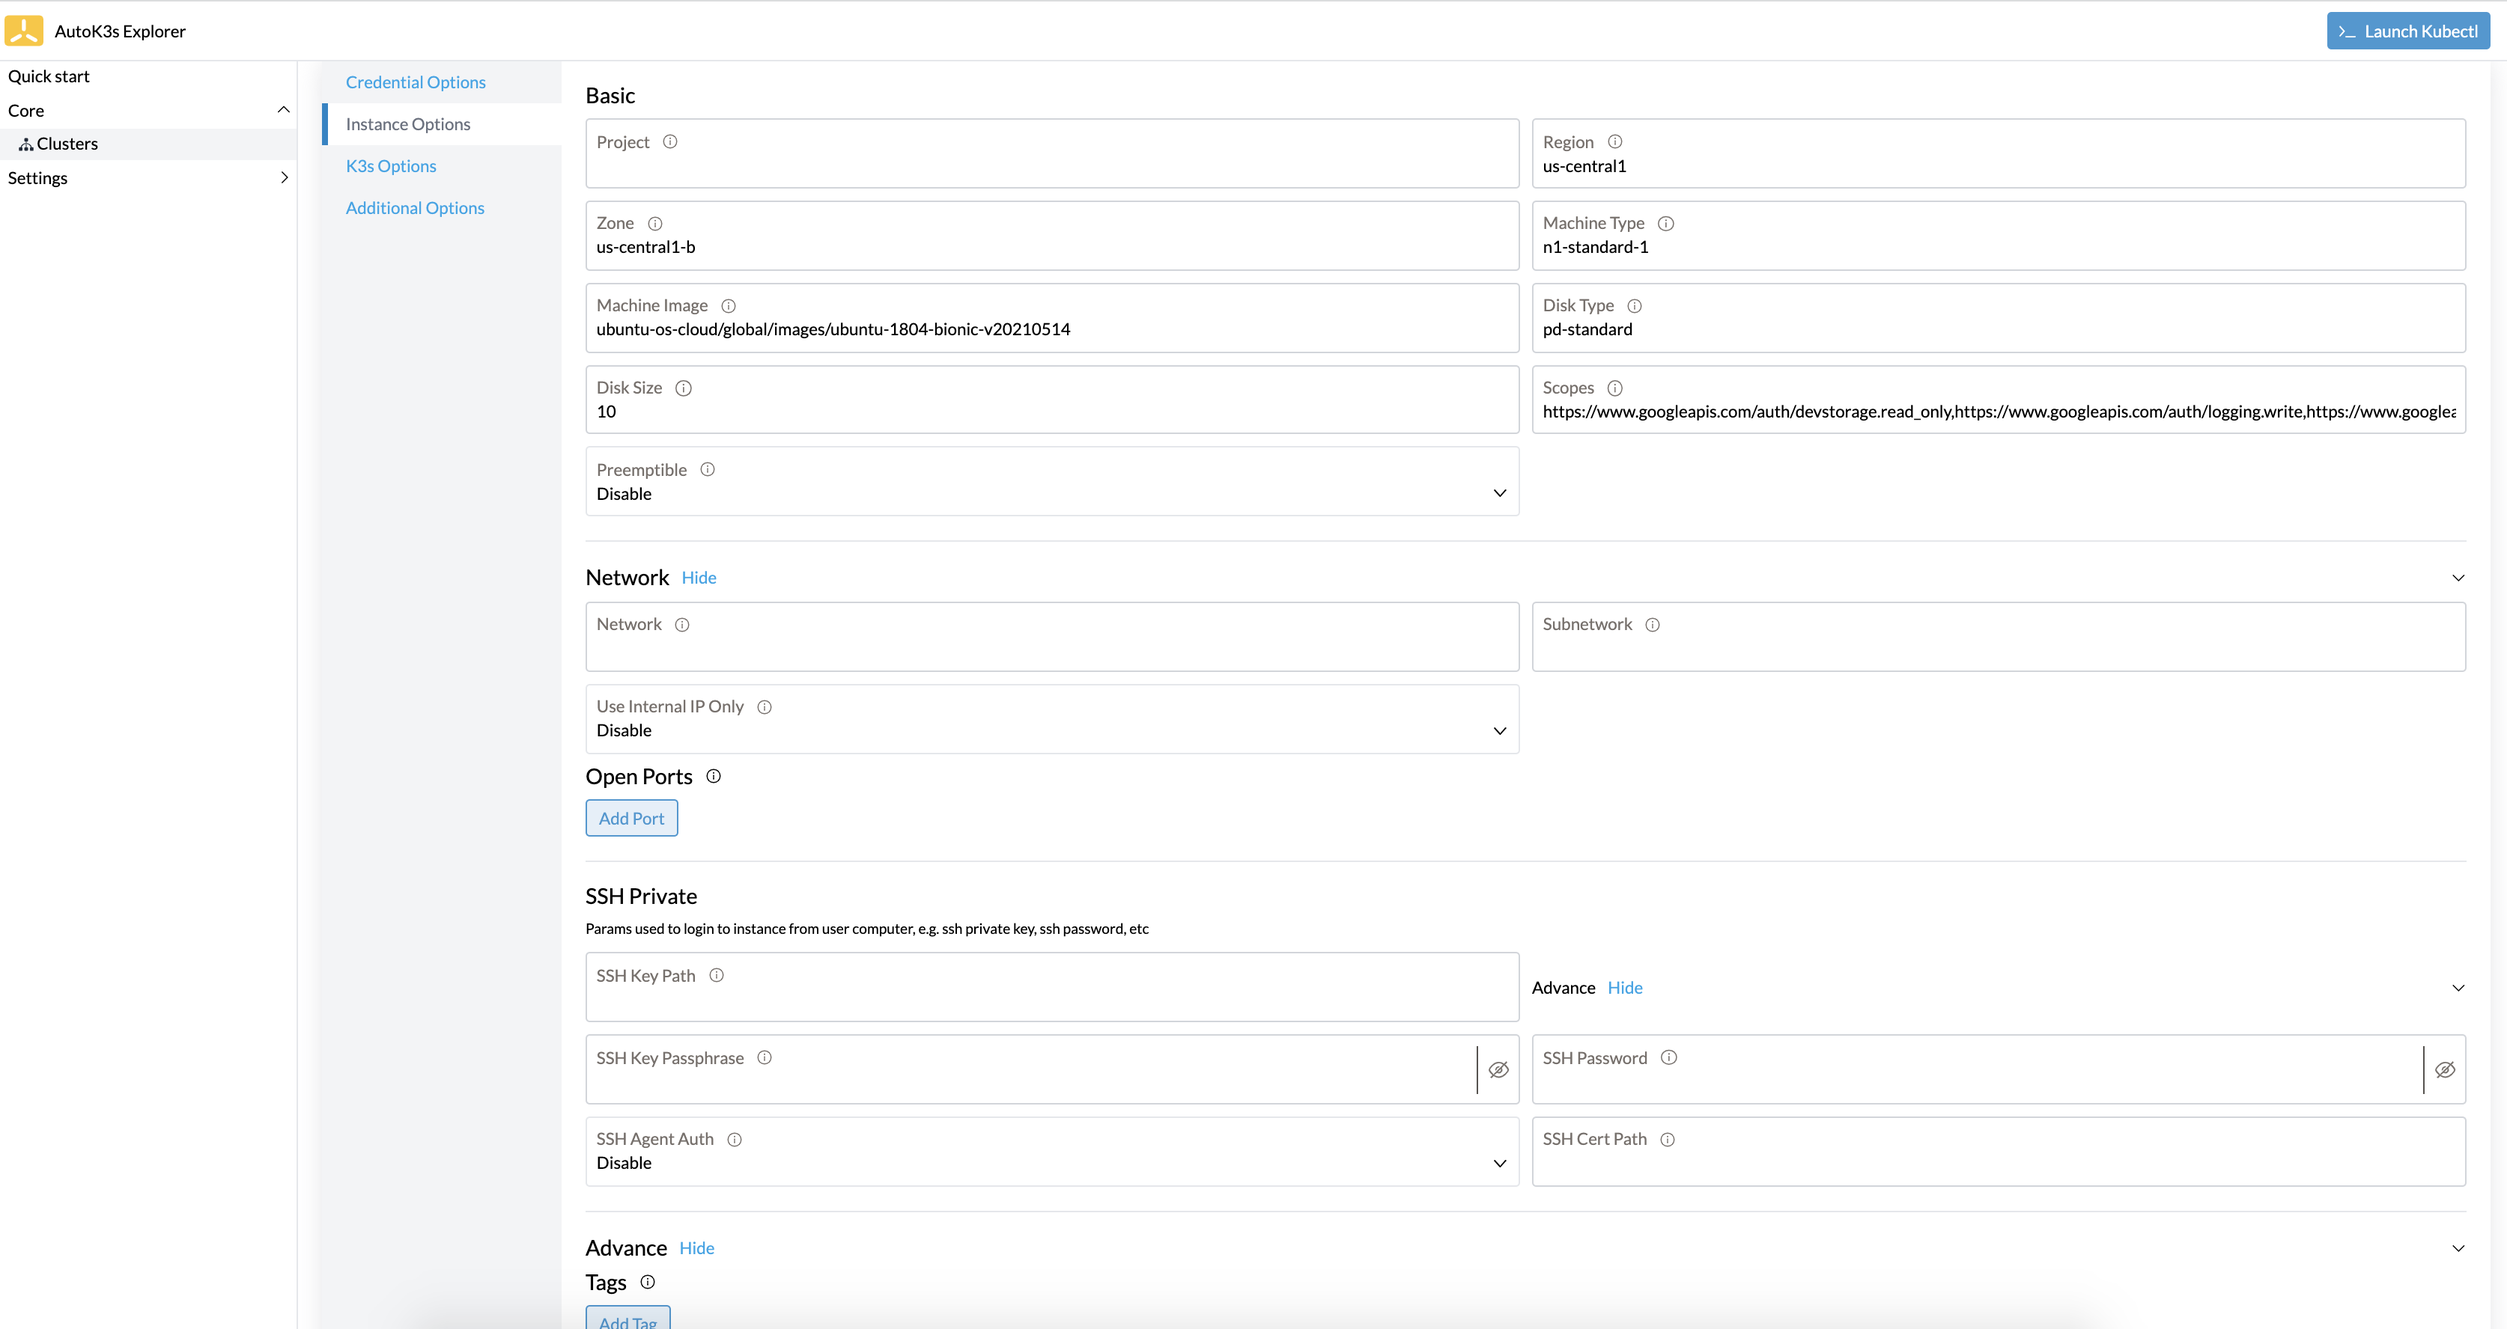
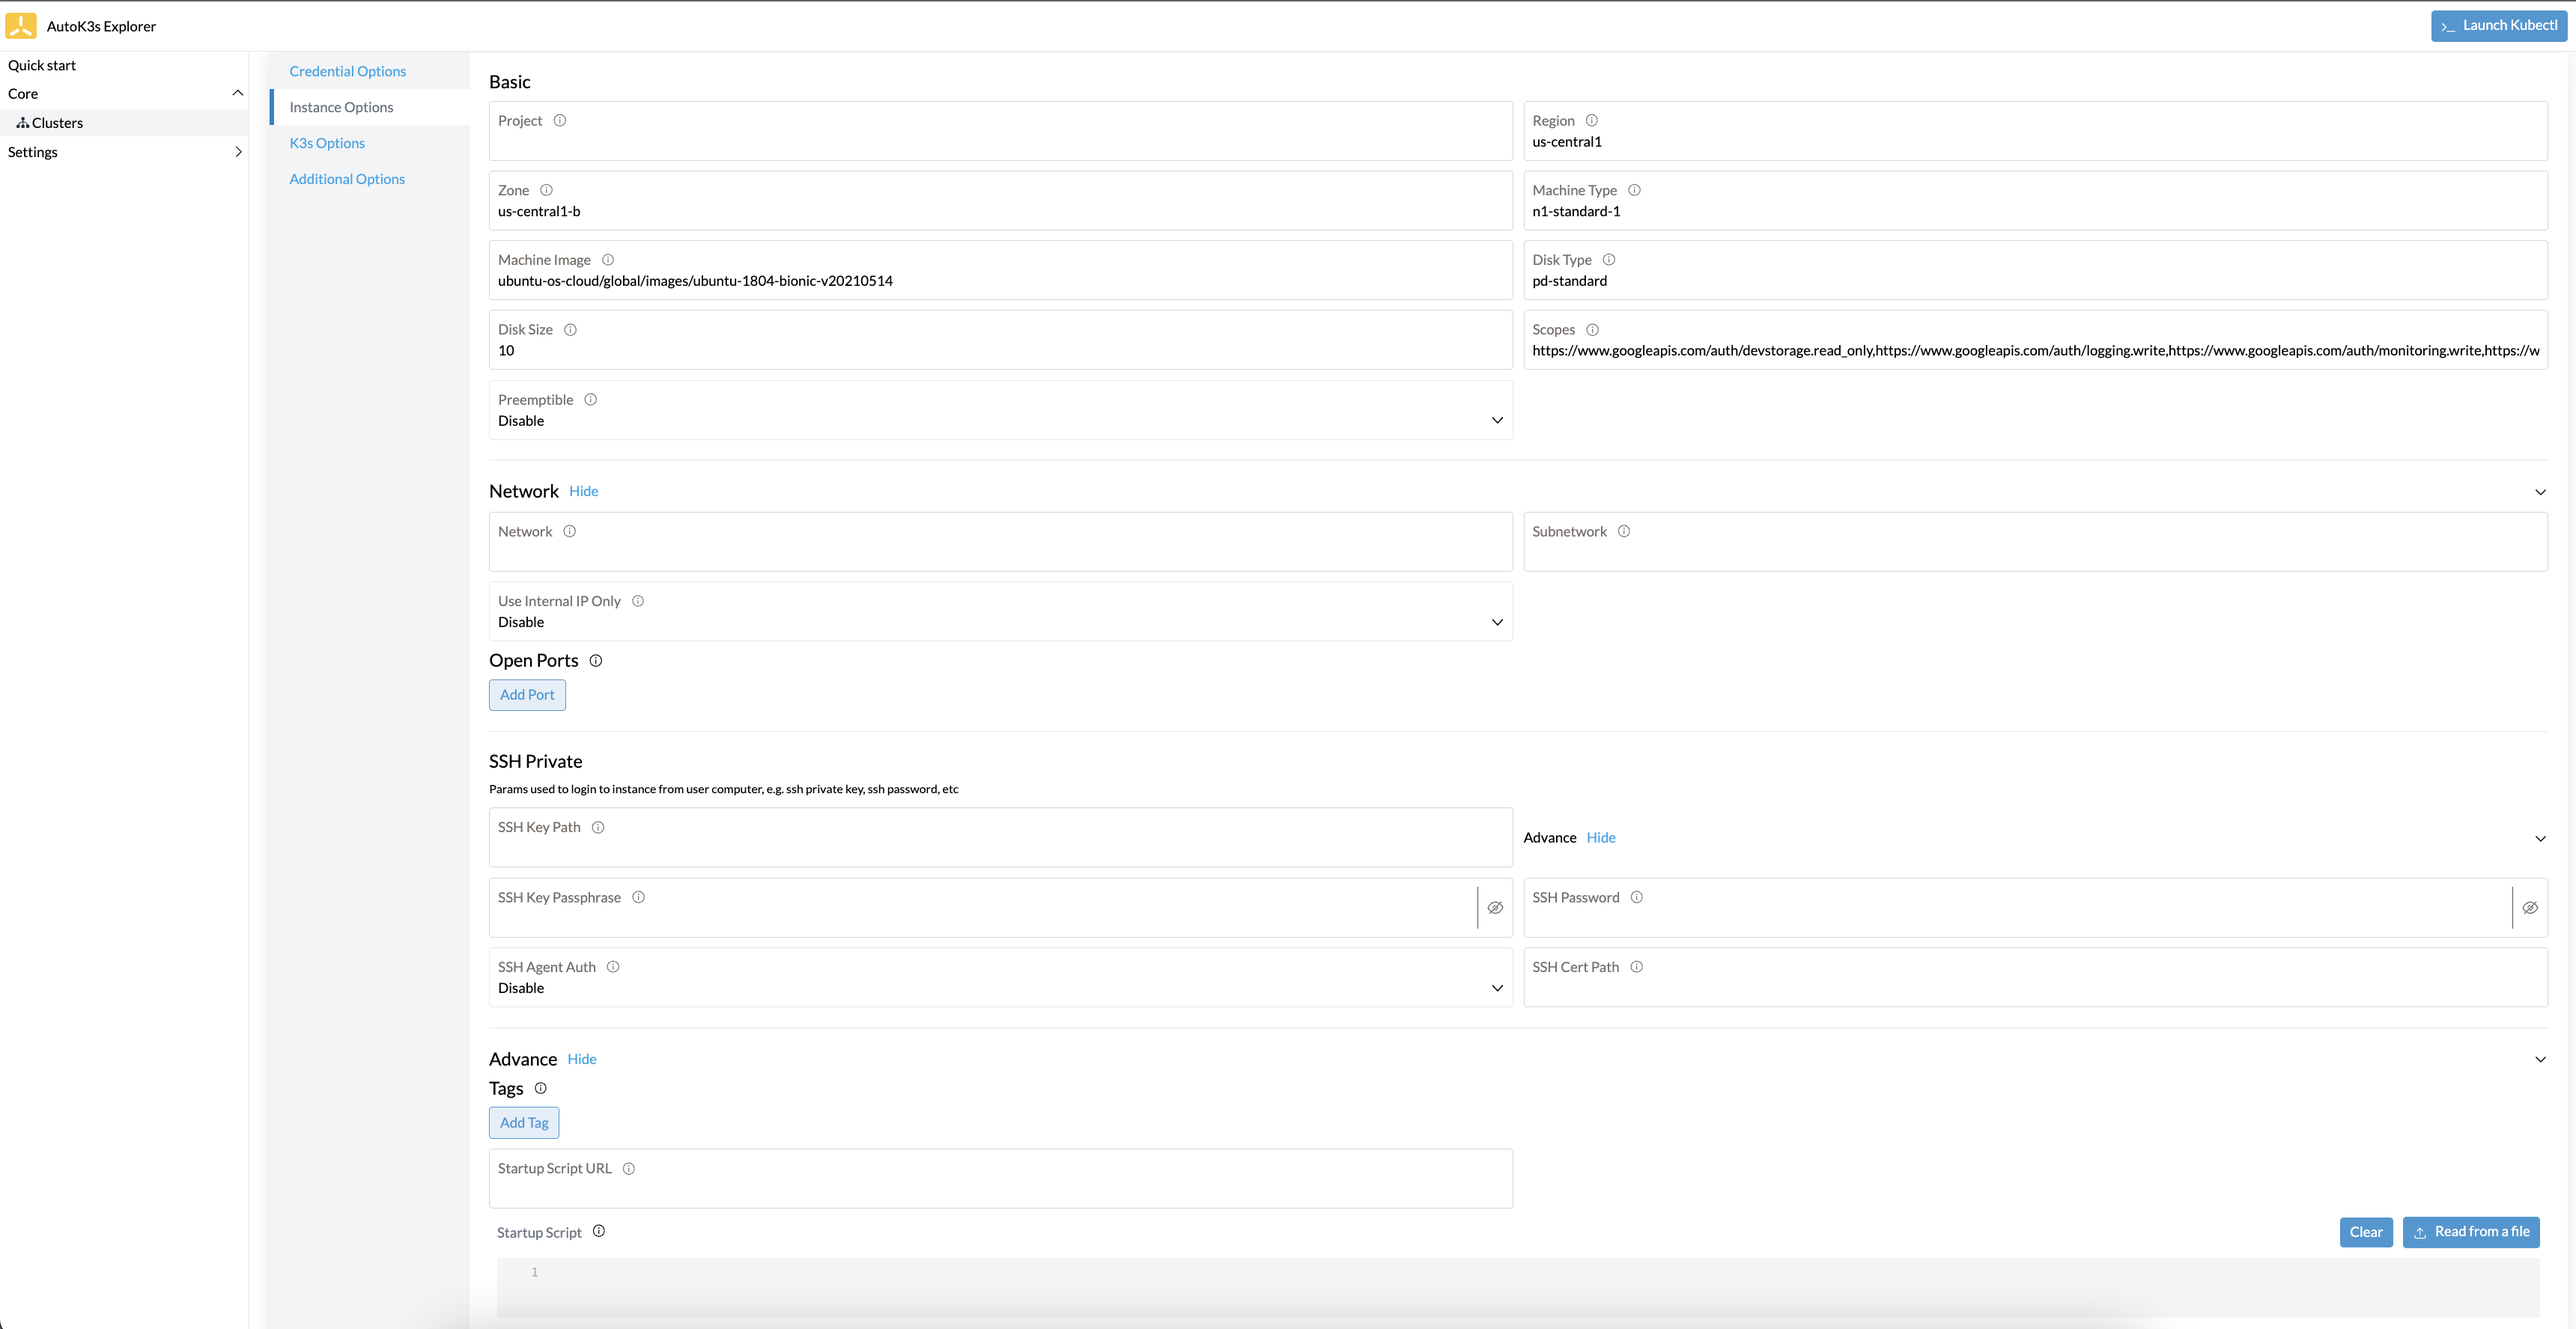
Update AutoK3s to v0.5.1

diff --git a/docs/k3s/autok3s/_index.md b/docs/k3s/autok3s/_index.md
@@ -49,13 +49,13 @@ AutoK3s 可以支持以下云厂商，我们会根据社区反馈添加更多支
 您可以通过以下 Docker 命令，一键启动 AutoK3s 本地 UI，快速体验相关功能。
 
 ```bash
-docker run -itd --restart=unless-stopped -p 8080:8080 cnrancher/autok3s:v0.5.0
+docker run -itd --restart=unless-stopped -p 8080:8080 cnrancher/autok3s:v0.5.1
 ```
 
 如果您想要在 docker 中使用 K3d provider，那么您需要使用宿主机网络启动 AutoK3s 镜像。
 
 ```bash
-docker run -itd --restart=unless-stopped --net host -v /var/run/docker.sock:/var/run/docker.sock cnrancher/autok3s:v0.5.0
+docker run -itd --restart=unless-stopped --net host -v /var/run/docker.sock:/var/run/docker.sock cnrancher/autok3s:v0.5.1
 ```
 
 如果您是 MacOS 或者 Linux 系统，您也可以使用以下安装命令，一键安装 AutoK3s（Windows用户请前往 [Releases](https://github.com/cnrancher/autok3s/releases) 页面下载对应的程序）。
@@ -98,19 +98,19 @@ autok3s -d create -p aws --name myk3s --master 1 --worker 1
 
 ## 升级
 
-如果您使用 Docker 命令一键启动 AutoK3s 本地 UI，从 `v0.4.0` 升级到 `v0.5.0` 需要进行如下操作以保证历史数据的迁移。
+如果您使用 Docker 命令一键启动 AutoK3s 本地 UI，从 `v0.4.0` 升级到 `v0.5.1` 需要进行如下操作以保证历史数据的迁移。
 
 ```bash
 docker cp <old-container>:/root/.autok3s .
 docker rm -f <old-container>
-docker run -itd --restart=unless-stopped -p 8080:8080 -v $PWD/.autok3s:/root/.autok3s cnrancher/autok3s:v0.5.0
+docker run -itd --restart=unless-stopped -p 8080:8080 -v $PWD/.autok3s:/root/.autok3s cnrancher/autok3s:v0.5.1
 ```
 
 在 `v0.4.1` 以后的版本，可以直接通过 `--volumes-from` 来保证历史数据的迁移。
 
 ```bash
 docker stop <old-container>
-docker run -itd --restart=unless-stopped -p 8080:8080 --volumes-from <old-container> cnrancher/autok3s:v0.5.0
+docker run -itd --restart=unless-stopped -p 8080:8080 --volumes-from <old-container> cnrancher/autok3s:v0.5.1
 ```
 
 ## 开发者指南

diff --git a/docs/k3s/autok3s/alibaba/_index.md b/docs/k3s/autok3s/alibaba/_index.md
@@ -181,6 +181,9 @@ OutBound    ALL         ALL       ALL                Allow All
 | Image | 阿里云 ECS 系统映像ID | `ubuntu_18_04_x64_20G_alibase_20200618.vhd`(Ubuntu 18.04)
 | Disk Category | 根磁盘卷类型 | `cloud_ssd`
 | Disk Size | 根磁盘卷大小 | `40`(GiB)
+| Spot Strategy | 是否使用[抢占式实例](https://www.alibabacloud.com/help/zh/elastic-compute-service/latest/preemptible-instances-overview#section-pgb-zcy-wgb) | `NoSpot`
+| Spot Duration | 抢占式实例的保留时长，单位为小时 | `1`
+| Spot Price Limit | 设置实例的每小时最高价格，支持最大3位小数，仅当参数`SpotStrategy`设置为`SpotWithPriceLimit`时生效 | 
 | V-Switch | 专有网络交换机 ID (如果您不设置，AutoK3s 将为您创建名称为 autok3s-aliyun-vswitch 的默认交换机) | 
 | Internet Max Bandwidth Out | 网络带宽 | 5(MB)
 | Security Group | 安全组(如果您不选择任何安全组，AutoK3s 将为您自动创建名称为 autok3s 的[默认的安全组](#设置安全组)) | 

diff --git a/docs/k3s/autok3s/google/_index.md b/docs/k3s/autok3s/google/_index.md
@@ -120,6 +120,8 @@ OutBound    ALL         ALL       ALL                Allow All
 | SSH Agent Auth | 如果您配置 SSH 代理程序，可以开启此项配置 | false
 | SSH Cert Path | 如果您配置了 ssh certificate，在这里您需要将 certificate path 传入进来，以保证 AutoK3s 可以通过ssh连接到远程虚拟机 |
 | Tags | 虚拟机标签 |
+| Startup Script URL | 保存在Cloud Storage中的启动脚本url，为Linux VM引用[启动脚本](https://cloud.google.com/compute/docs/instances/startup-scripts/linux#passing-storage) |
+| Startup Script | 为Linux VM设置[启动脚本](https://cloud.google.com/compute/docs/instances/startup-scripts/linux#passing-directly)，这里可输入启动脚本的内容 |
 
 #### K3s 参数配置
 

diff --git a/docs/k3s/autok3s/tencent/_index.md b/docs/k3s/autok3s/tencent/_index.md
@@ -152,6 +152,7 @@ OutBound    ALL         ALL       ALL                Allow All
 | Image | 腾讯云 CVM 系统映像 ID | `img-pi0ii46r`(Ubuntu 18.04)
 | Disk Category | 根磁盘卷类型 | `CLOUD_SSD`
 | Disk Size | 根磁盘卷大小 | `50`(GiB)
+| Spot | 是否使用[竞价实例](https://cloud.tencent.com/document/product/213/17816) | `false`
 | VPC ID | VPC ID(如果您不设置，AutoK3s 将为您创建名称为 autok3s-tencent-vpc 的VPC) | 
 | Subnet ID | 子网 ID(如果您不设置，AutoK3s会自动在 autok3s-tencent-vpc 下创建默认子网) | 
 | Internet Max Bandwidth Out | 网络带宽 | 5(MB)
